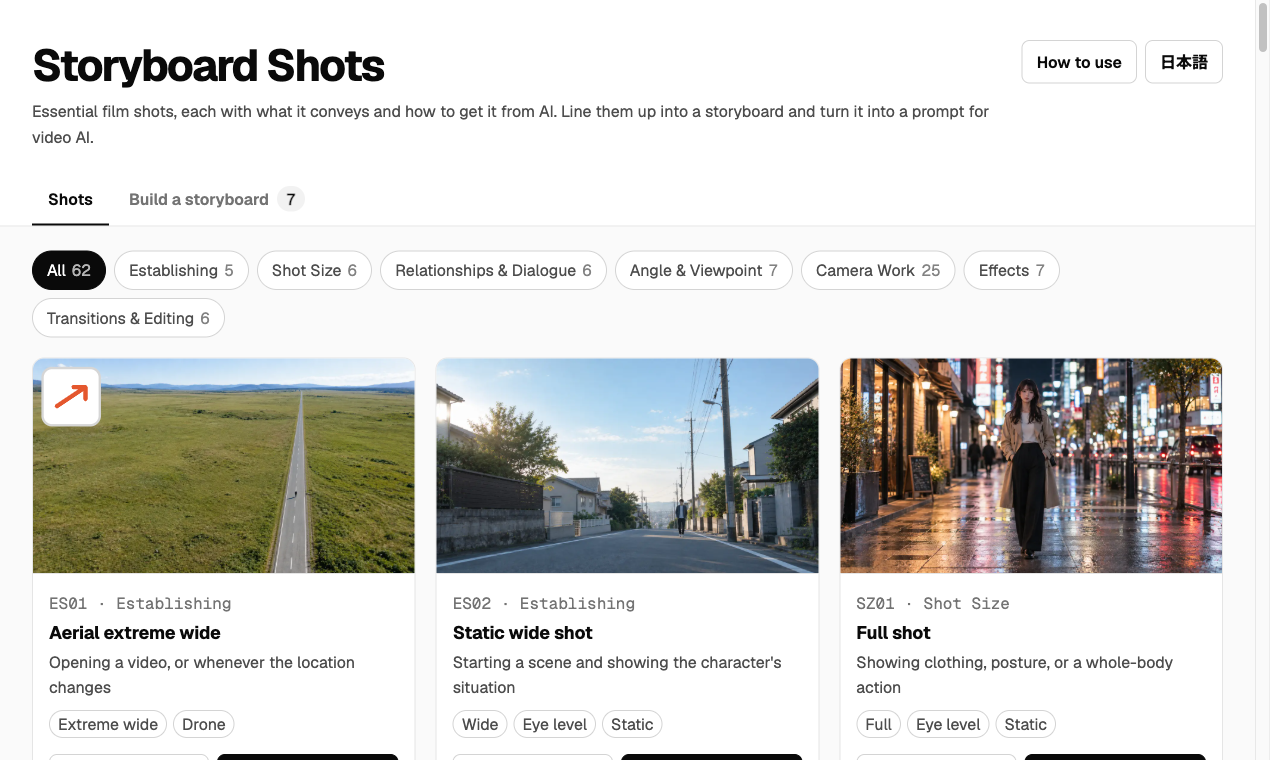
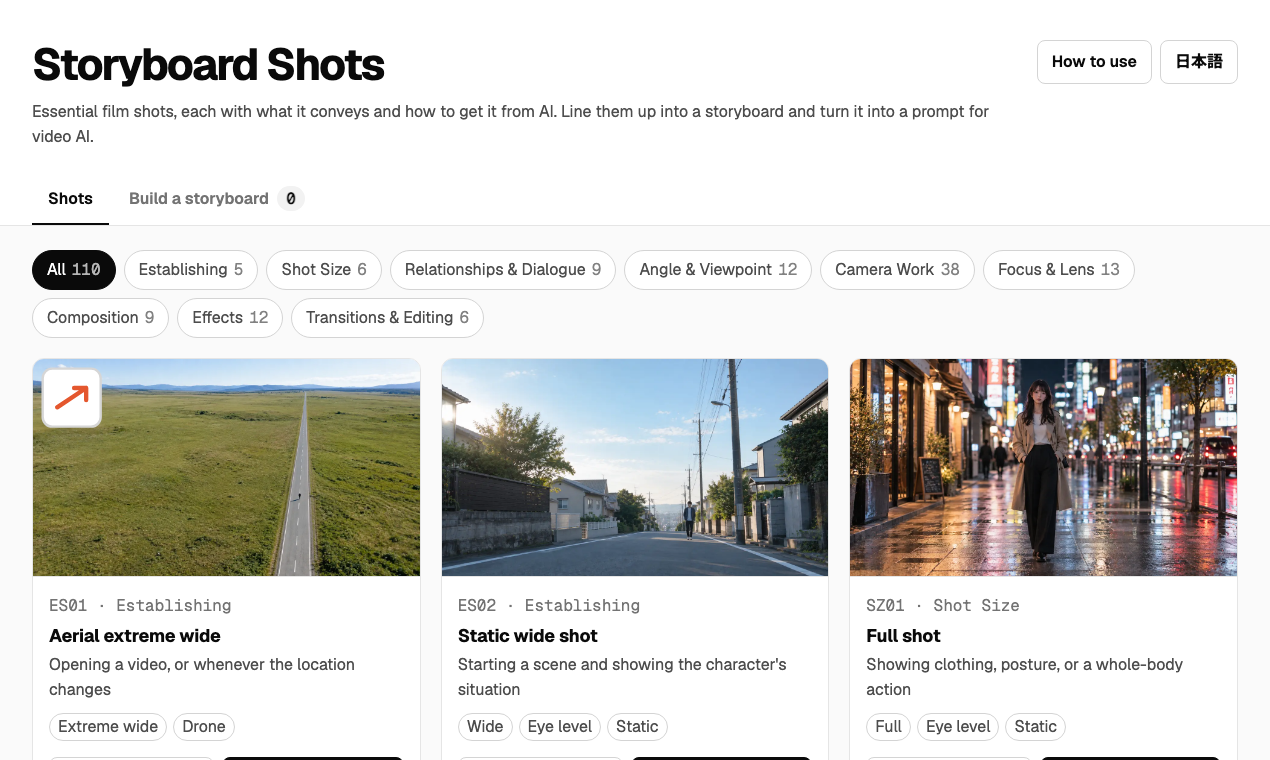
chore(storyboard-shots): Product Hunt のヒーロー画像を「100+」に、一覧画面の画像を110本の画面に撮り直し
Claude-Session: https://claude.ai/code/session_0178QGGtQkXB9CwnwUmvGMKC

diff --git a/_src/storyboard-shots/producthunt/hero.html b/_src/storyboard-shots/producthunt/hero.html
@@ -26,7 +26,7 @@
   <div class="left">
     <span class="badge">Free · No sign-up</span>
     <h1>Storyboard<br>Shots</h1>
-    <p>60+ film shots, essential to advanced.<br>Copy prompts for AI video.</p>
+    <p>100+ film shots, essential to advanced.<br>Copy prompts for AI video.</p>
     <div class="site">CodeQuest.work</div>
   </div>
   <div class="panel">
